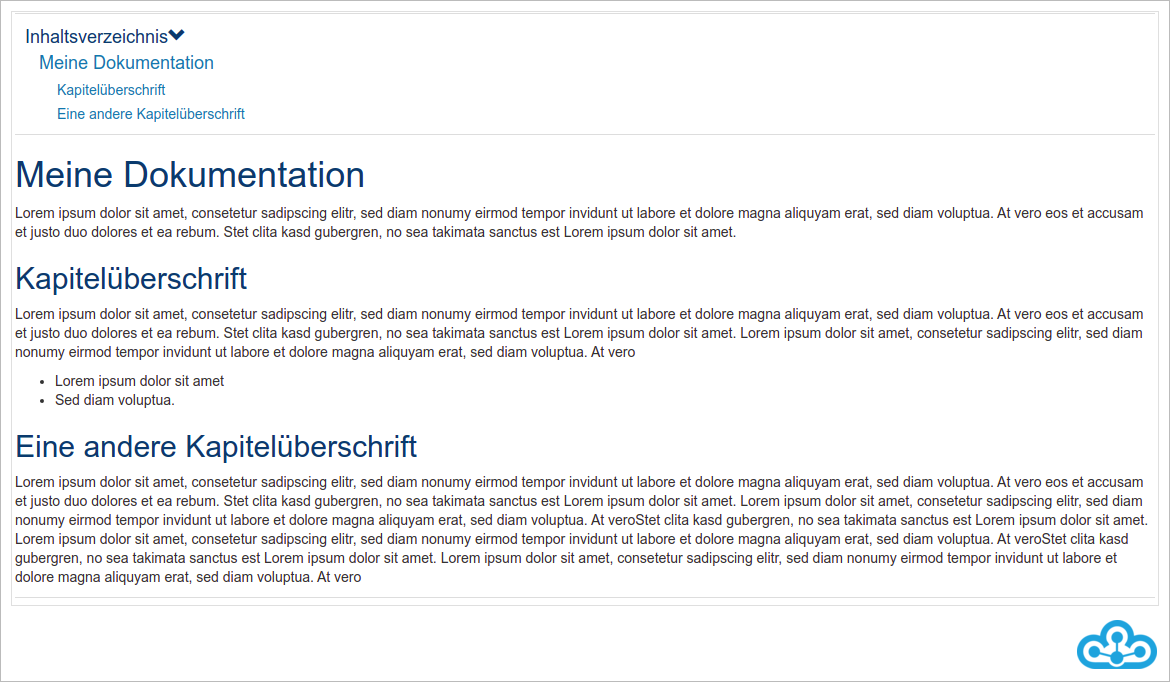
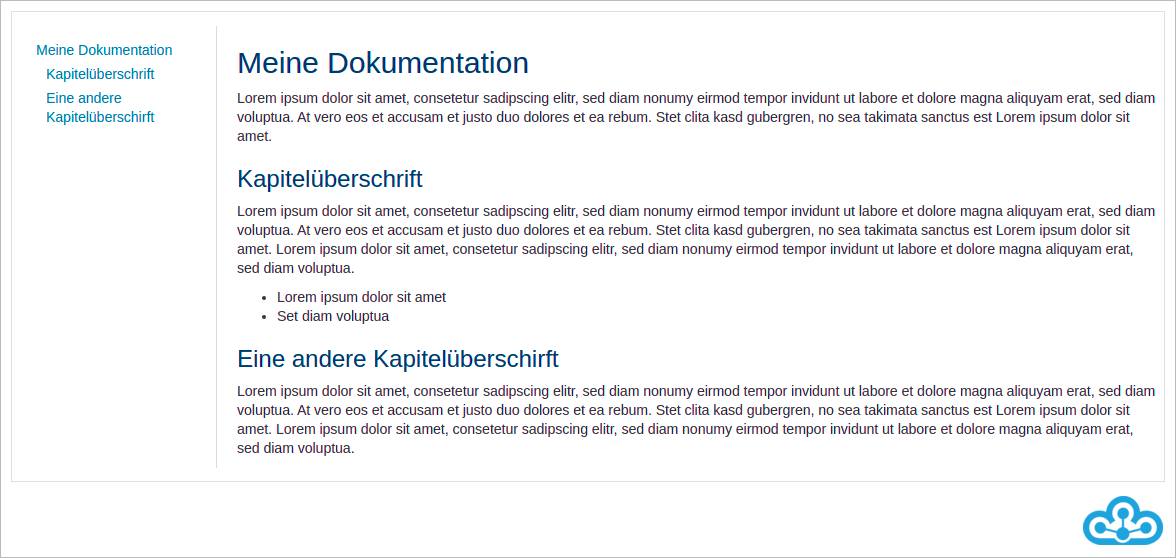
#161 updated docs

diff --git a/docs/gui/smeagol_de.md b/docs/gui/smeagol_de.md
@@ -38,7 +38,7 @@ Das Root-Verzeichnis (standardmäßig "docs") und die Hauptseite (also jene Seit
 
 ![Smeagol Wiki Seitenübersicht mithilfe von Breadcrumbs](figures/smeagol/SmeagolBreadcrumb_DE.png)
 
-Bei langen Wikis ist das ausklappbare Inhaltsverzeichnis eine große Hilfe. Es wird automatisch bei Änderungen am Wiki aktualisiert und orientiert sich an den Überschriften. Diese dienen als Sprungmarken auf den jeweiligen Abschnitt.
+Bei langen Wikis ist das fixierte Inhaltsverzeichnis eine große Hilfe. Es wird automatisch bei Änderungen am Wiki aktualisiert und orientiert sich an den Überschriften. Diese dienen als Sprungmarken auf den jeweiligen Abschnitt.
 
 ![Smeagol Inhaltsverzeichnis](figures/smeagol/SmeagolTableOfContents_DE.png)
 

diff --git a/docs/gui/smeagol_en.md b/docs/gui/smeagol_en.md
@@ -38,7 +38,7 @@ A simple navigation through the wiki is possible via the breadcumb. For example,
 
 ![Smeagol Wiki Seitenübersicht mithilfe von Breadcrumbs](figures/smeagol/SmeagolBreadcrumb_EN.png)
 
-For long wikis, the fold-out table of contents is a great help. It is automatically updated when changes are made to the wiki and is based on the headings. These serve as jumping points to the respective section.
+For long wikis, the fixed table of contents is a great help. It is automatically updated when changes are made to the wiki and is based on the headings. These serve as jumping points to the respective section.
 
 ![Smeagol Table of Contents](figures/smeagol/SmeagolTableOfContents_EN.png)
 
